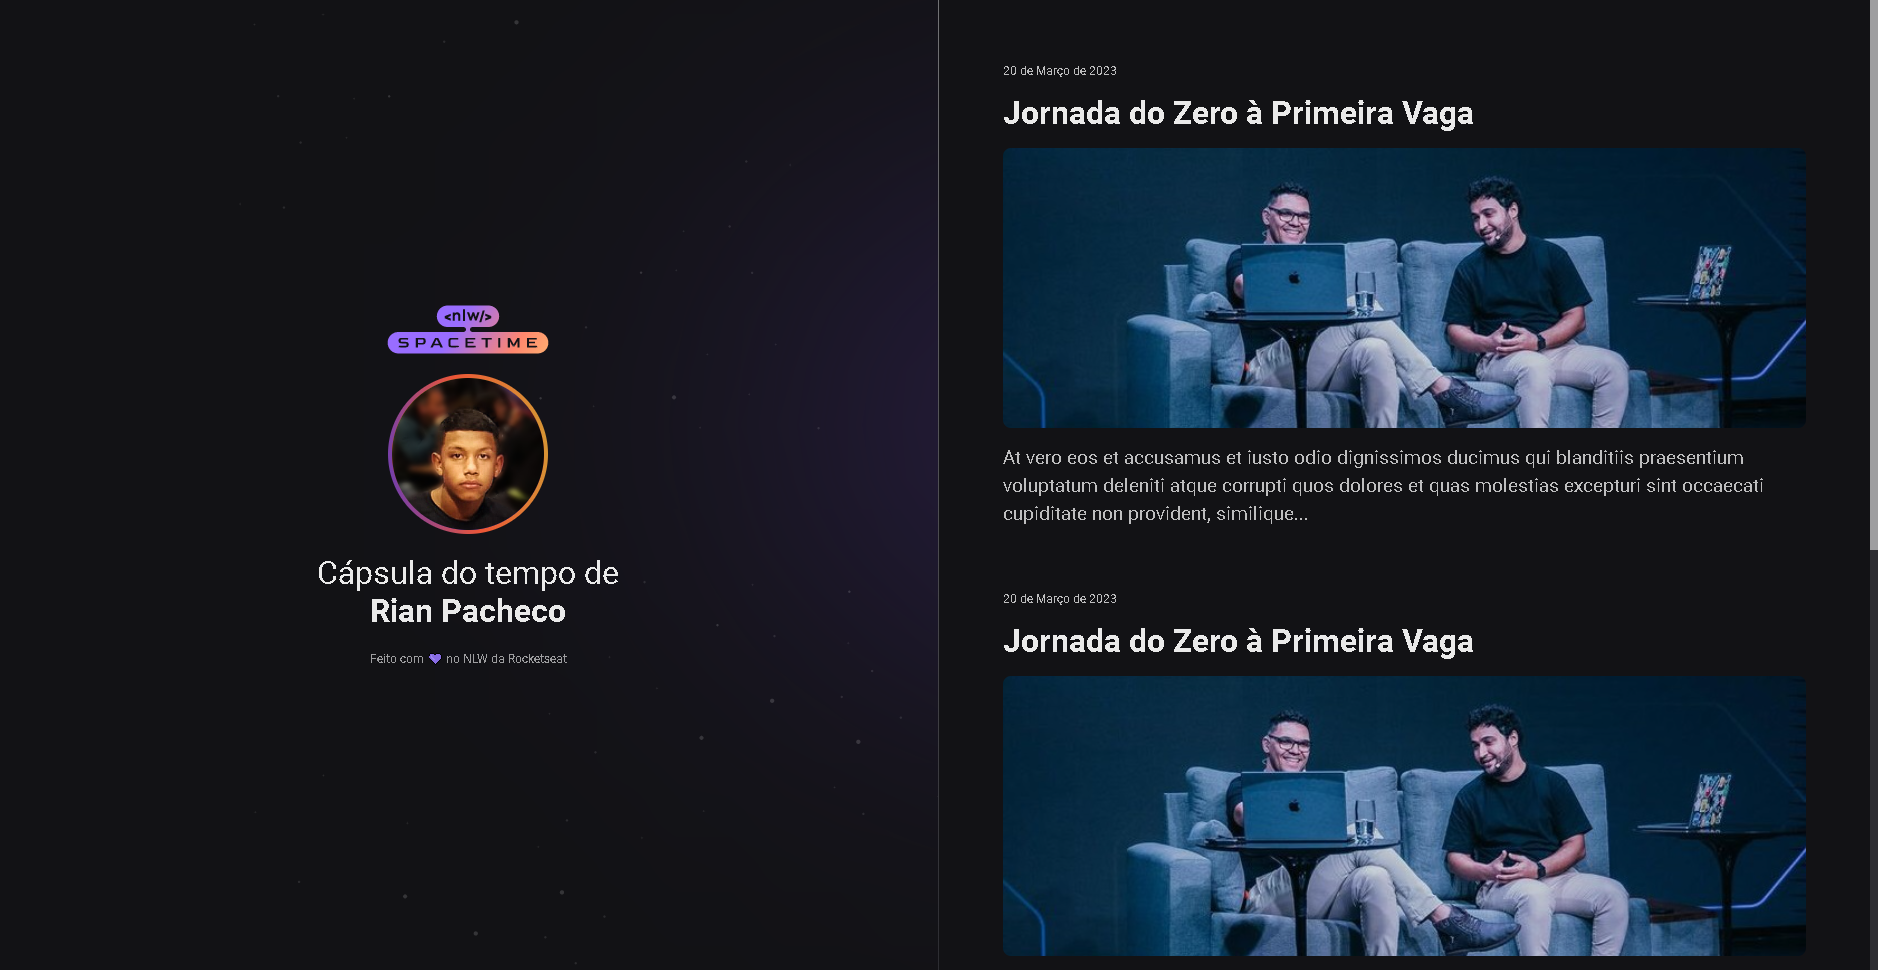
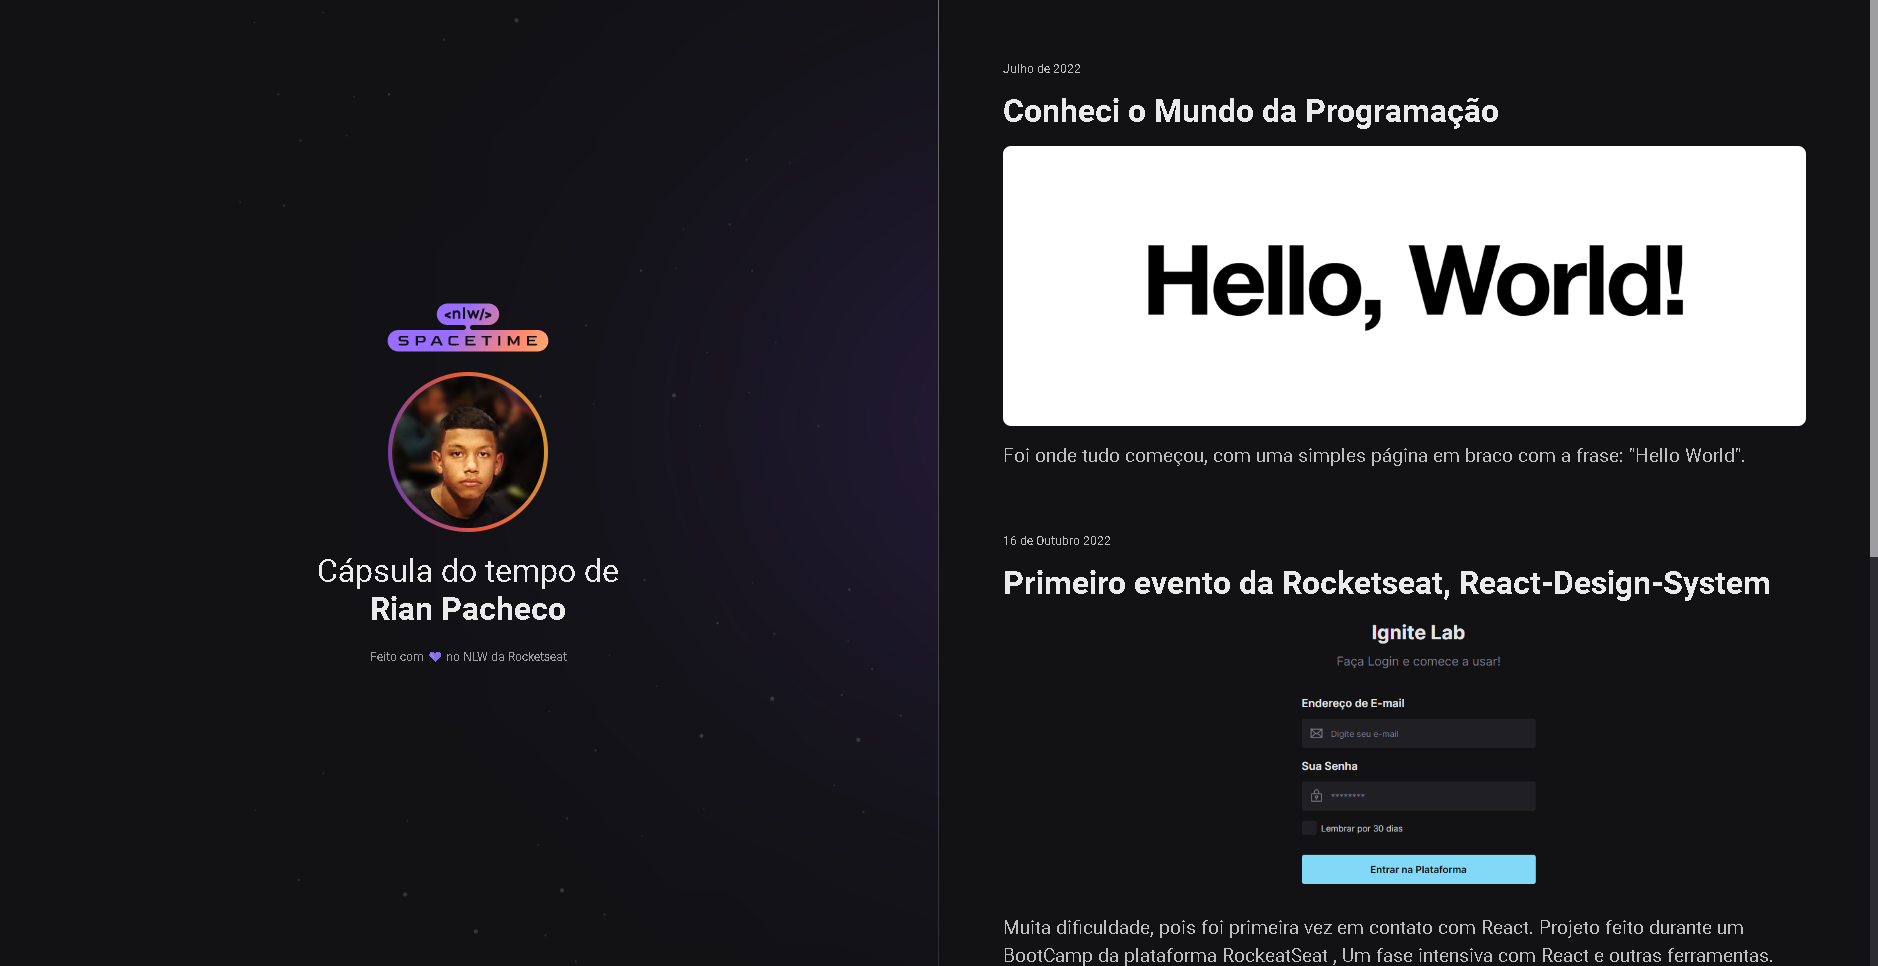
Uptade ✔

diff --git a/index.html b/index.html
@@ -30,66 +30,55 @@
     </aside>
 
     <nav>
-      <a
-        href="https://www.youtube.com/watch?v=3nz5HkUJaVU"
-        target="_blank"
-        class="memory"
-      >
-        <small>20 de Março de 2023</small>
-        <h1>Jornada do Zero à Primeira Vaga</h1>
+      <a href="" target="_blank" class="memory">
+        <small>Julho de 2022</small>
+        <h1>Conheci o Mundo da Programação</h1>
         <div>
-          <img
-            src="./assets/jornada.png"
-            alt="Rodrigo e Mayk apresentando o evento Jornada do Zero à Primeira Vaga"
-          />
+          <img src="./assets/first-memory.jpg" alt="Hello World" />
         </div>
         <p>
-          At vero eos et accusamus et iusto odio dignissimos ducimus qui
-          blanditiis praesentium voluptatum deleniti atque corrupti quos dolores
-          et quas molestias excepturi sint occaecati cupiditate non provident,
-          similique...
+          Foi onde tudo começou, com uma simples página em braco com a frase:
+          "Hello World".
         </p>
       </a>
 
       <a
-        href="https://www.youtube.com/watch?v=3nz5HkUJaVU"
+        href="https://github.com/RianPacheco/react-design-system"
         target="_blank"
         class="memory"
       >
-        <small>20 de Março de 2023</small>
-        <h1>Jornada do Zero à Primeira Vaga</h1>
+        <small>16 de Outubro 2022</small>
+        <h1>Primeiro evento da Rocketseat, React-Design-System</h1>
         <div>
           <img
-            src="./assets/jornada.png"
-            alt="Rodrigo e Mayk apresentando o evento Jornada do Zero à Primeira Vaga"
+            src="./assets/./second-memory.png"
+            alt="Imagem representando o ignite lab"
           />
         </div>
         <p>
-          At vero eos et accusamus et iusto odio dignissimos ducimus qui
-          blanditiis praesentium voluptatum deleniti atque corrupti quos dolores
-          et quas molestias excepturi sint occaecati cupiditate non provident,
-          similique...
+          Muita dificuldade, pois foi primeira vez em contato com React. Projeto
+          feito durante um BootCamp da plataforma RockeatSeat , Um fase
+          intensiva com React e outras ferramentas.
         </p>
       </a>
 
       <a
-        href="https://www.youtube.com/watch?v=3nz5HkUJaVU"
+        href="https://github.com/RianPacheco/nlw-spacetime"
         target="_blank"
         class="memory"
       >
-        <small>20 de Março de 2023</small>
-        <h1>Jornada do Zero à Primeira Vaga</h1>
+        <small>Maio de 2023</small>
+        <h1>Primeira NLW</h1>
         <div>
-          <img
-            src="./assets/jornada.png"
-            alt="Rodrigo e Mayk apresentando o evento Jornada do Zero à Primeira Vaga"
-          />
+          <img src="./assets/third-memory.png" alt="Imagem de RocketSeat" />
         </div>
         <p>
-          At vero eos et accusamus et iusto odio dignissimos ducimus qui
-          blanditiis praesentium voluptatum deleniti atque corrupti quos dolores
-          et quas molestias excepturi sint occaecati cupiditate non provident,
-          similique...
+          E aqui estou, fazendo meu primeiro NLW, onde aprendi várias coisas não
+          só sobre hard skills, mas também soft skills, e uma soft skills. E
+          acho que o maior aprendizado que tive neste NLW foi de lembrar do meu
+          passado, do que aprendi, de que eu superei desafios, de que eu comecei
+          e até hoje continuo. Obrigado Maykão, Rodrigo, Diego e todo pessoal da
+          Rocketseat, obrigado!
         </p>
       </a>
     </nav>
